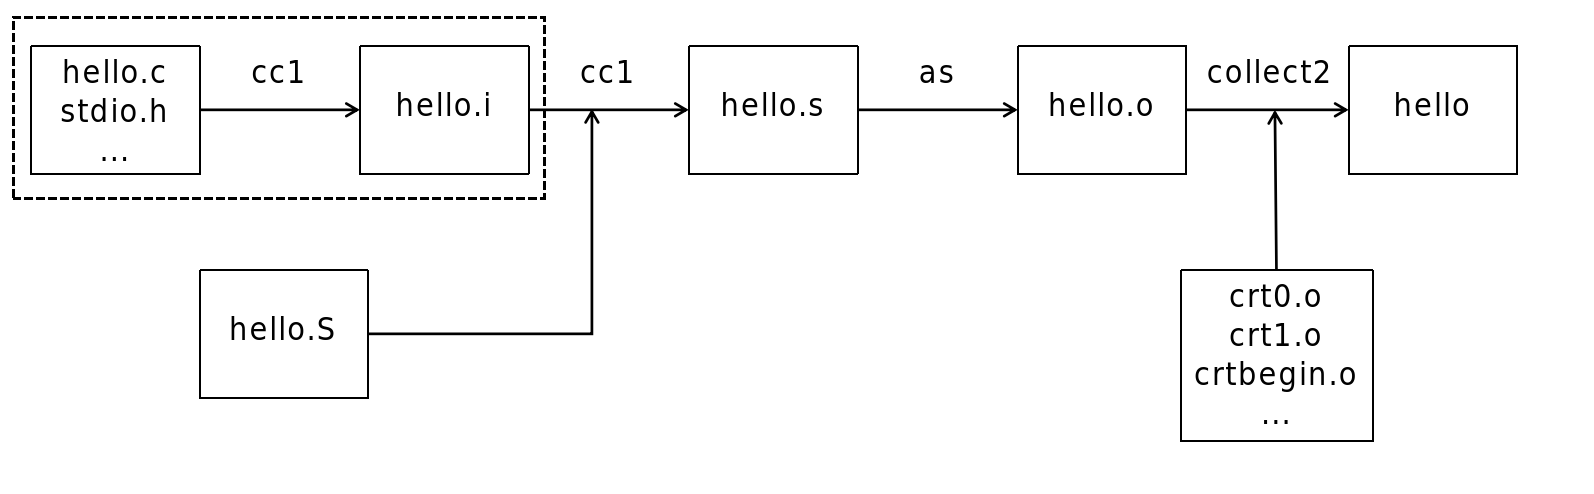
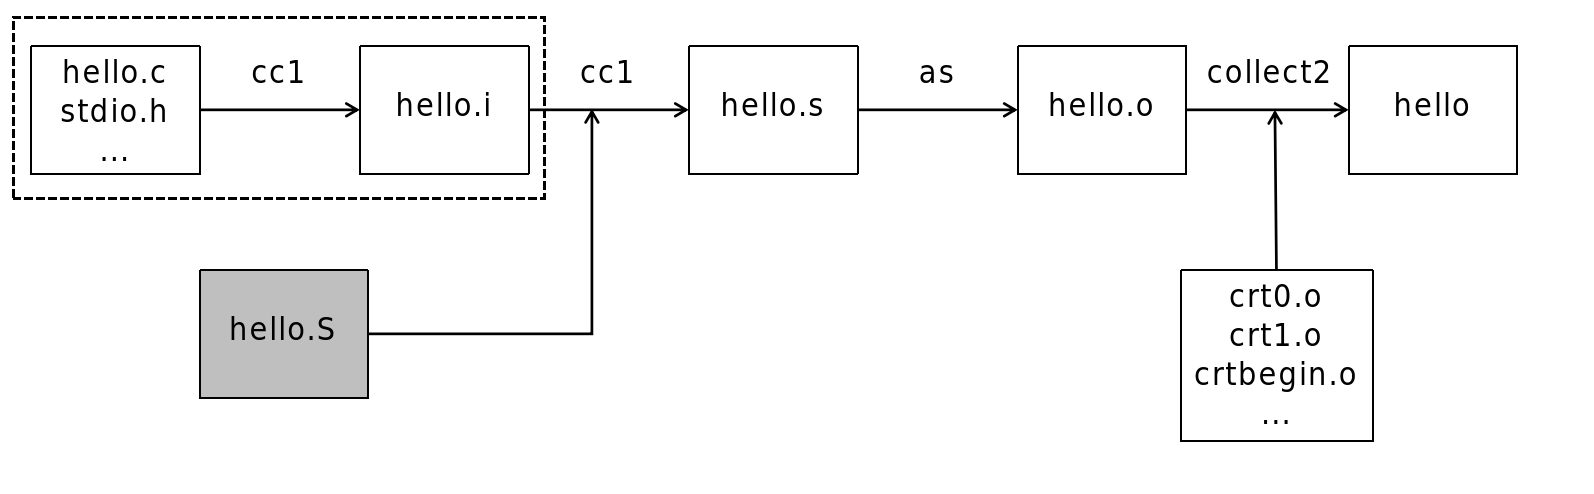
update.

Changed region(s): [[0.123, 0.5466, 0.2459, 0.8198]]

diff --git a/source/context/ch2/ch2p2.md b/source/context/ch2/ch2p2.md
@@ -99,10 +99,10 @@ main:
 	addi.d 		$r3, $r3, -16
 	la.local 	$r5, .LC0
 	la.local	$r4, .LC1
-	bl 			%plt(printf)
-	or 			$r4, $r0, $r0
+	bl 		%plt(printf)
+	or 		$r4, $r0, $r0
 	addi.d 		$r3, $r3, 16
-	jr 			$r1
+	jr 		$r1
 ```
 其中“.LC0:”“.LC1:”“main:”都称为标签，可用于标识一段字符串区域起始位置或函数的入口地址。
 
@@ -122,7 +122,7 @@ main:
 
 目标文件（以hello.o为例）不是文本文件，故此文件中的内容是人类不可读的乱码。如果要正确查看文件中的具体内容，可以借助于反汇编工具objdump。objdump工具用于把目标文件转换成人类可读的UTF-8编码格式的文本文件，命令格式为
 ``` shell
-objdump <option> <objfile>
+$objdump <option> <objfile>
 ```
 option可以是-f、-h、-d、-t等参数值，分别可用于显示目标文件的头信息、段信息、文件内容、符号表信息等，根据实际需要来选择即可。objdump更多的可用参数和含义可以使用命令“objdump --help”来查看。
 
@@ -132,7 +132,16 @@ $objdump -d hello.o > a.txt
 ```
 文件a.txt中包含所有用到的函数的反汇编信息，这里仅列举函数main对应的反汇编内容，具体如下：
 ``` shell
-***TODO_CODE_2_2_2***
+0000000000000000 <main>:
+0:		02ffc063		addi.d       $r3,$r3,-16(0xff0)
+4:		1c000005		pcaddu12i   $r5,0
+8:		02c000a5		addi.d      $r5,$r5,0
+c:		1c000004		pcaddu12i   $r4,0
+10:		02c00084		addi.d      $r4,$r4,0
+14:		54000000		bl          0 # 18 <main+0x18>
+18:		00150004		or          $r4,$r0,$r0
+24:		02c04063		addi.d      $r3,$r3,16(0x10)
+28:		4c000020		jirl        $r0,$r1,0
 ```
 为了便于阅读和理解，objdump把机器指令按三列显示。第一列为当前这条机器指令所在的内存地址，以十六进制表示。不过在此阶段每个方法所在的起始地址都为0，待后面链接阶段才能确定最终在内存中的位置。龙芯指令是定长指令，长度固定为4字节，故后面每条指令位置都累加4，即4、8、c等。第二列为机器指令，也是用十六进制表示。第三列是对hello.o中的每条机器指令的对等翻译，把不易读的机器指令翻译成相对易读的汇编指令。
 
@@ -154,6 +163,20 @@ $gcc -c hello.c -o hello.o
 
 我们使用objdump反汇编链接后生成的hello文件，显示结果如下：
 ``` shell
-***TODO_OBJDUMP_2_2_3***
+ 0000000120000570 <printf@plt>:
+120000570:		1c00010f		pcaddu12i       $r15,8(0x8)
+120000574:		28ea81ef		ld.d            $r15,$r15,-1376(0xaa0)
+120000578:		1c00000d		pcaddu12i       $r13,0
+12000057c:		4c0001e0		jirl            $r0,$r15,0
+0000000120000580 <main>:
+120000580:		02ffc063		addi.d    $r3,$r3,-16(0xff0)
+120000584:		1c000005		pcaddu12i     $r5,0
+120000588:		02c000a5		addi.d  $r5,  $r5,0
+12000058c:		1c000004		pcaddu12i     $r4,0
+120000590:		02c00084		addi.d        $r4,$r4,0
+120000594:		54000000		bl     -40(0xfffffd8) # 120000570 <printf@plt>
+12000059c:		00150004		or            $r4,$r0,$r0
+1200005a0:		02c04063		addi.d        $r3,$r3,16(0x10)
+1200005ac:		4c000020		jirl          $r0,$r1,0
 ```
-和前文机器指令生成阶段产生的hello.o文件内容做对比后不难发现，链接后的指令几乎没有变化，但是指令的存放地址发生了改变（见第一列）。main函数的起始地址（函数的第一条指令所在地址）由之前的0变为0x120000580，后面的指令所在地址依次加4字节。这个地址是hello程序运行时的有效虚拟地址。而且经过重定位过程，指令“bl 0”变成了“bl -40(0xfffffd8)”，指令没有变，但是跳转地址被修正，即从当前地址(0x120000594)减去40字节可得到printf的函数地址。后面的备注信息(# 120000570 <printf@plt>)已经帮助我们计算好了，printf的地址为0x120000570 。
+和前文机器指令生成阶段产生的hello.o文件内容做对比后不难发现，链接后的指令几乎没有变化，但是指令的存放地址发生了改变（见第一列）。main函数的起始地址（函数的第一条指令所在地址）由之前的0变为0x120000580，后面的指令所在地址依次加4字节。这个地址是hello程序运行时的有效虚拟地址。而且经过重定位过程，指令“bl 0”变成了“bl -40(0xfffffd8)”，指令没有变，但是跳转地址被修正，即从当前地址(0x120000594)减去40字节可得到printf的函数地址。后面的备注信息(# 120000570 <printf\@plt>)已经帮助我们计算好了，printf的地址为0x120000570 。
